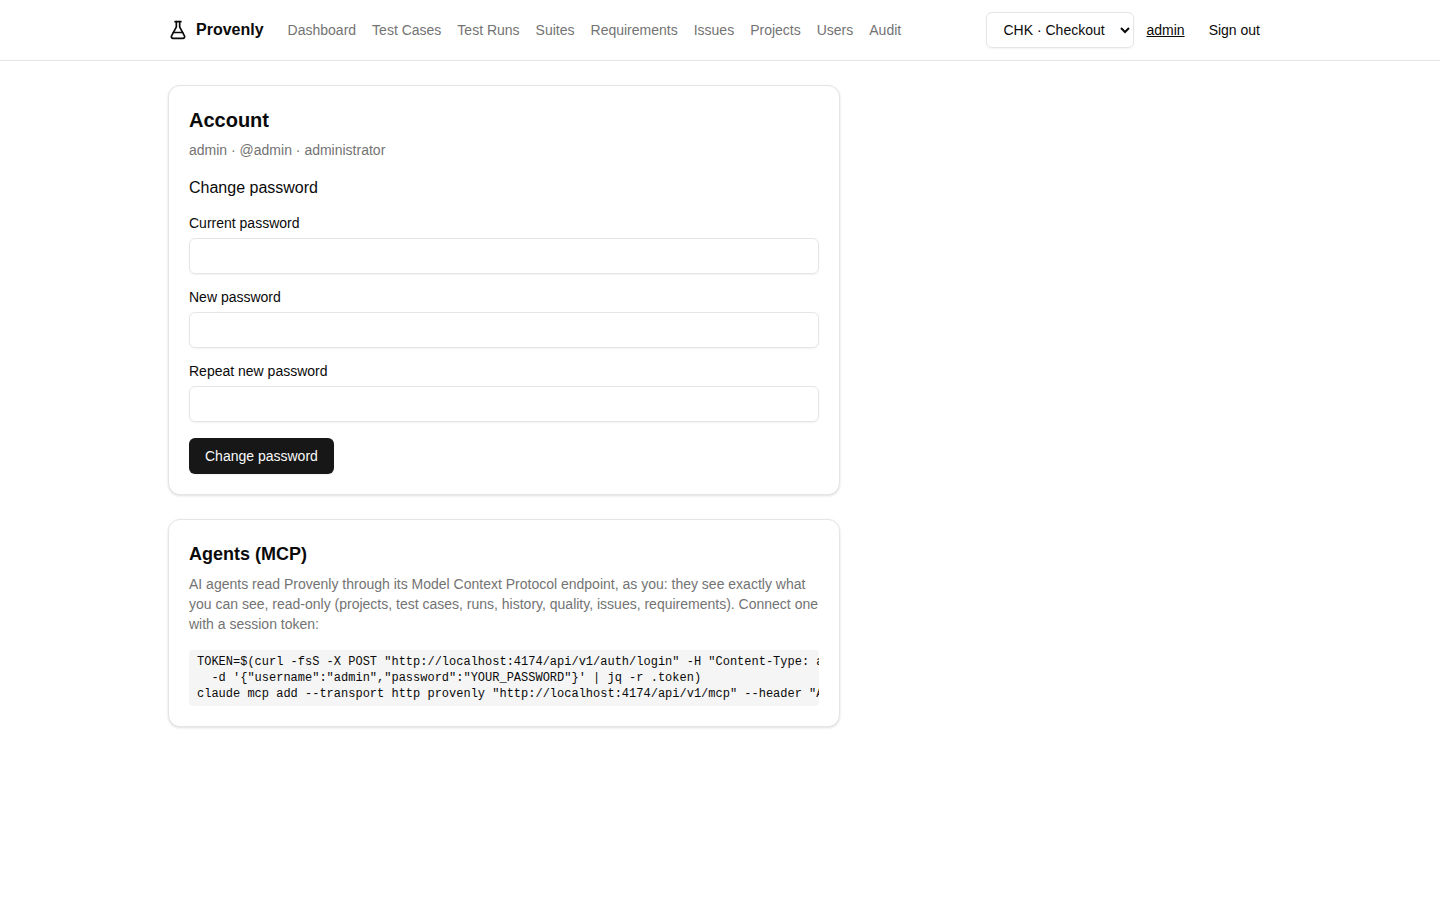
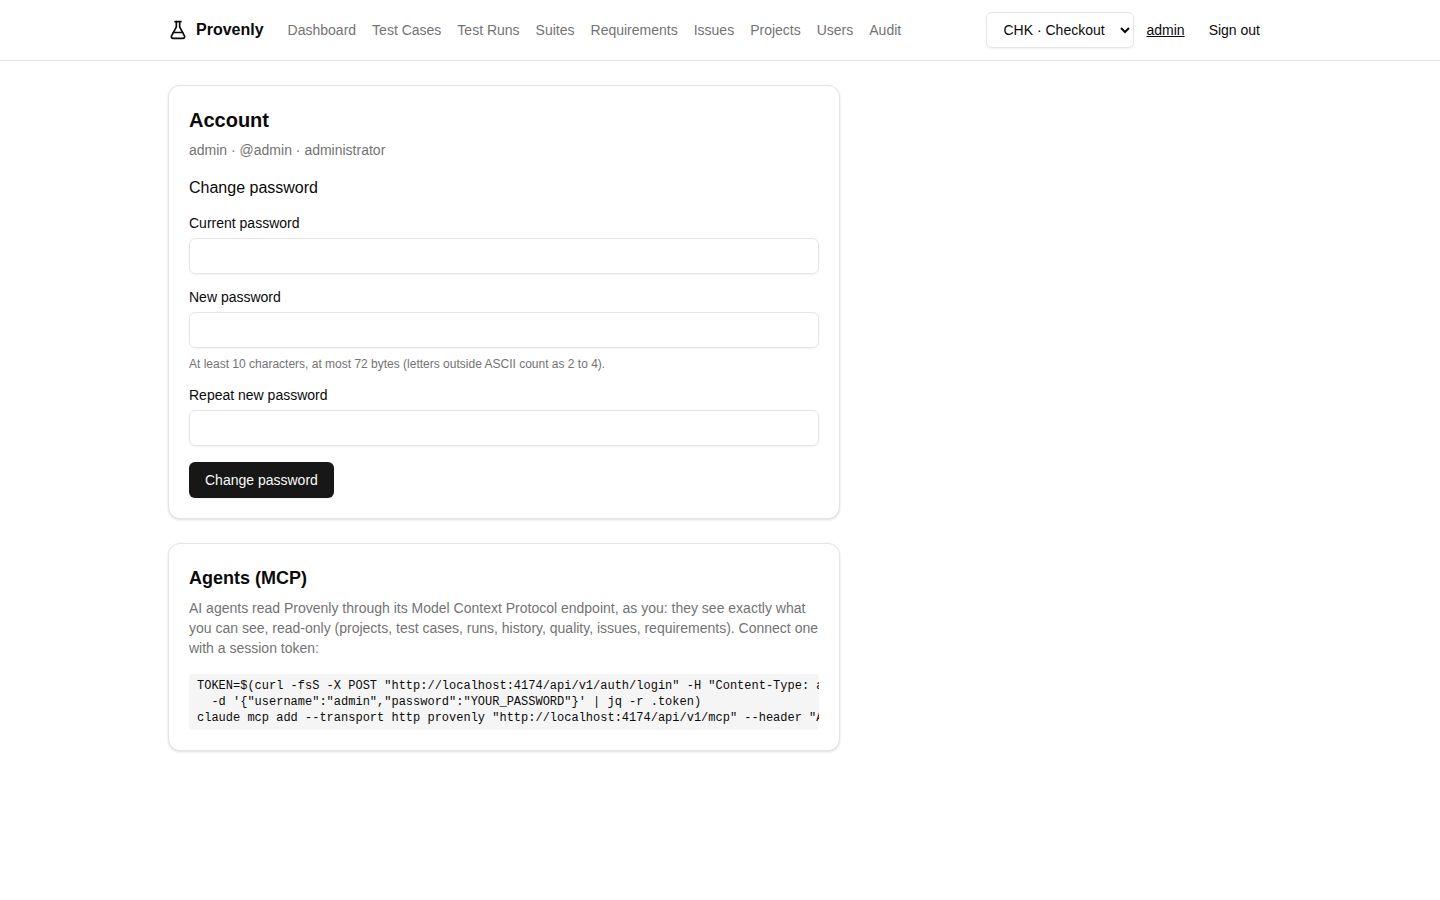
Passwords: minimum counted in characters, maximum in bytes
The 10-character minimum counted bytes, so 5 non-ASCII letters passed and a
10-letter password like "contraseña" was measured as 11. The minimum now counts
characters; the 72-byte maximum (bcrypt's limit, never truncated) stays and the
forms and error explain that non-ASCII letters count as 2 to 4 bytes. The same
rule applies to PROVENLY_ADMIN_PASSWORD (documented in prod.env.example).

Claude-Session: https://claude.ai/code/session_01GioNDrizPJ4gyPR3jgQwuF

Changed region(s): [[0.125, 0.5911, 0.5625, 0.8089], [0.125, 0.4044, 0.4062, 0.56]]

diff --git a/frontend/src/test/mockApi.ts b/frontend/src/test/mockApi.ts
@@ -1530,7 +1530,11 @@ export const handlers = [
         const body = await readBody(request)
         const u = currentUser()
         const next = String(body?.newPassword ?? '')
-        if (next.length < 10) return validation('newPassword', 'must be at least 10 characters')
+        const tooShort = (p: string) => [...p].length < 10
+        const tooLong = (p: string) => new TextEncoder().encode(p).length > 72
+        if (tooShort(next)) return validation('newPassword', 'must be at least 10 characters')
+        if (tooLong(next))
+          return validation('newPassword', 'must be at most 72 bytes (letters outside ASCII count as 2 to 4)')
         if (db.passwords[u.username] !== body?.currentPassword)
           return validation('currentPassword', 'is not your current password')
         db.passwords[u.username] = next
@@ -1597,7 +1601,9 @@ export const handlers = [
           .toLowerCase()
         const password = String(body?.password ?? '')
         if (!USERNAME.test(username)) return validation('username', 'must be 3 to 32 lower-case letters')
-        if (password.length < 10) return validation('password', 'must be at least 10 characters')
+        if ([...password].length < 10) return validation('password', 'must be at least 10 characters')
+        if (new TextEncoder().encode(password).length > 72)
+          return validation('password', 'must be at most 72 bytes (letters outside ASCII count as 2 to 4)')
         const inv = db.invitations.find((i) => i.id === db.invitationTokens[String(body?.token ?? '')])
         if (!inv || inv.status !== 'pending')
           return problem(404, 'not_found', 'invitation not found, expired, revoked or already used')

diff --git a/frontend/src/features/auth/auth.int.test.tsx b/frontend/src/features/auth/auth.int.test.tsx
@@ -281,6 +281,12 @@ describe('FE-INT-029 account', () => {
       }
       await u.click(screen.getByRole('button', { name: 'Change password' }))
     }
+    expect(screen.getByLabelText('New password')).toHaveAccessibleDescription(
+      'At least 10 characters, at most 72 bytes (letters outside ASCII count as 2 to 4).',
+    )
+    // 37 two-byte letters are 74 bytes: over bcrypt's limit although only 37 characters.
+    await fill('correct horse', 'ñ'.repeat(37), 'ñ'.repeat(37))
+    expect(await screen.findByRole('alert')).toHaveTextContent('newPassword: must be at most 72 bytes')
     await fill('correct horse', 'a brand new password', 'something else!')
     expect(screen.getByText('The new passwords do not match.')).toBeInTheDocument()
     await fill('wrong password', 'a brand new password', 'a brand new password')

diff --git a/frontend/src/features/auth/AccountPage.tsx b/frontend/src/features/auth/AccountPage.tsx
@@ -83,7 +83,11 @@ export function AccountPage() {
                 onChange={set('newPassword')}
                 required
                 minLength={10}
+                aria-describedby="new-password-hint"
               />
+              <p className="text-muted-foreground text-xs" id="new-password-hint">
+                At least 10 characters, at most 72 bytes (letters outside ASCII count as 2 to 4).
+              </p>
             </div>
             <div className="grid gap-2">
               <Label htmlFor="confirm-password">Repeat new password</Label>

diff --git a/frontend/src/features/auth/AcceptInvitePage.tsx b/frontend/src/features/auth/AcceptInvitePage.tsx
@@ -123,6 +123,9 @@ export function AcceptInvitePage() {
                   minLength={10}
                   {...invalid('password')}
                 />
+                <p className="text-muted-foreground text-xs" id="invite-password-hint">
+                  At least 10 characters, at most 72 bytes (letters outside ASCII count as 2 to 4).
+                </p>
                 {fieldError('password', 'Password')}
               </div>
               <div className="grid gap-2">

diff --git a/backend/internal/identity/service.go b/backend/internal/identity/service.go
@@ -24,7 +24,7 @@ import (
 
 // Limits and formats of the identity module.
 const (
-	MinPasswordBytes = 10
+	MinPasswordChars = 10
 	// MaxPasswordBytes is bcrypt's input limit: longer passwords would be silently truncated.
 	MaxPasswordBytes = 72
 	maxDisplayName   = 100
@@ -402,9 +402,12 @@ func validateUsername(v *apperr.Validator, username string) {
 	v.Check(UsernamePattern.MatchString(username), "username", UsernameMessage)
 }
 
+// validatePassword checks the length in characters at the bottom (what people count) and in bytes at the top (bcrypt's
+// limit, never truncated): a 10-character password of multi-byte characters is not a 5-character one.
 func validatePassword(v *apperr.Validator, field, password string) {
-	v.Check(len(password) >= MinPasswordBytes, field, fmt.Sprintf("must be at least %d characters", MinPasswordBytes))
-	v.Check(len(password) <= MaxPasswordBytes, field, fmt.Sprintf("must be at most %d bytes", MaxPasswordBytes))
+	v.Check(utf8.RuneCountInString(password) >= MinPasswordChars, field, fmt.Sprintf("must be at least %d characters", MinPasswordChars))
+	v.Check(len(password) <= MaxPasswordBytes, field,
+		fmt.Sprintf("must be at most %d bytes (letters outside ASCII count as 2 to 4)", MaxPasswordBytes))
 	v.CheckText(field, password)
 }
 

diff --git a/backend/internal/identity/service_test.go b/backend/internal/identity/service_test.go
@@ -160,10 +160,14 @@ func TestChangePasswordSignsOtherSessionsOut(t *testing.T) {
 
 func TestPasswordRules(t *testing.T) {
 	var v apperr.Validator
-	validatePassword(&v, "password", strings.Repeat("x", MinPasswordBytes))
+	validatePassword(&v, "password", strings.Repeat("x", MinPasswordChars))
 	validatePassword(&v, "password", strings.Repeat("x", MaxPasswordBytes))
+	validatePassword(&v, "password", "contraseña")            // 10 characters, 11 bytes
+	validatePassword(&v, "password", strings.Repeat("ñ", 36)) // 36 characters, exactly 72 bytes
 	assert.NoError(t, v.Err())
-	for _, p := range []string{"", strings.Repeat("x", MinPasswordBytes-1), strings.Repeat("x", MaxPasswordBytes+1), "abcdefghij\x00", "\xffabcdefghij"} {
+	// The minimum counts characters, the maximum bytes: 5 two-byte letters are 10 bytes but only 5 characters.
+	for _, p := range []string{"", strings.Repeat("x", MinPasswordChars-1), strings.Repeat("x", MaxPasswordBytes+1), "abcdefghij\x00", "\xffabcdefghij",
+		strings.Repeat("ñ", 5), strings.Repeat("😀", 19)} {
 		var v apperr.Validator
 		validatePassword(&v, "password", p)
 		assert.Error(t, v.Err(), "%q", p)

diff --git a/backend/test/contract/contract_test.go b/backend/test/contract/contract_test.go
@@ -212,6 +212,11 @@ func TestAuthentication(t *testing.T) {
 	}
 	accept(invToken, "Admin").Status(http.StatusConflict).JSON(problemOpts).Object().HasValue("code", "conflict")
 	accept(invToken, "x").Status(http.StatusBadRequest)
+	// Passwords: at least 10 characters (5 two-byte letters are not enough), at most 72 bytes (bcrypt's limit).
+	for _, pw := range []string{strings.Repeat("ñ", 5), strings.Repeat("p", 73)} {
+		e.POST("/api/v1/invitations/accept").WithJSON(map[string]any{"token": invToken, "username": "pat", "displayName": "Pat", "password": pw}).
+			Expect().Status(http.StatusBadRequest).JSON(problemOpts).Object().Value("errors").Array().Value(0).Object().HasValue("field", "password")
+	}
 	e.POST("/api/v1/invitations/accept").WithText(`{}`).Expect().Status(http.StatusUnsupportedMediaType)
 	ana := accept(invToken, "ana").Status(http.StatusCreated).JSON().Object()
 	ana.Value("user").Object().HasValue("username", "ana").HasValue("isAdmin", false).HasValue("email", "ana@example.com")

diff --git a/docs/prototype/README.md b/docs/prototype/README.md
@@ -60,7 +60,7 @@ Decisions taken in the prototype without Ed (to review). `MVP Dn` and `DEC-n` ar
 | P2-1 | Bootstrap | The first administrator comes from `PROVENLY_ADMIN_USERNAME` / `PROVENLY_ADMIN_PASSWORD` when there are no users; demo and qa ship a published demo password, prod refuses it | Self-hosting needs a first account without a setup wizard race; config is how the other settings already arrive |
 | P2-2 | Session transport | HS256 JWT (12 h) returned by sign-in and also set as an HttpOnly, SameSite=Strict cookie; the API accepts `Authorization: Bearer` or the cookie | The browser never sees the token (no XSS theft), scripts and CI tools use the bearer form; SameSite=Strict plus JSON-only bodies covers CSRF |
 | P2-3 | Revocation | Stateless sessions, but each request re-reads the user and a password-version claim signs every other session out on a password change | Real revocation without a session table; per-request user read is needed for roles anyway (feature 3) |
-| P2-4 | Passwords | bcrypt cost 12, 10 characters to 72 bytes (bcrypt's limit, never truncated silently); one answer for unknown user and wrong password, with equal timing | NIST-style minimum length, no composition rules; no account enumeration |
+| P2-4 | Passwords | bcrypt cost 12, at least 10 characters (counted as characters, 2026-10-06) to 72 bytes (bcrypt's limit, never truncated silently); one answer for unknown user and wrong password, with equal timing | NIST-style minimum length, no composition rules; no account enumeration |
 | P2-5 | Invitations | Single-use link, 7 days, optional email (prefills the account's email), revocable while pending; only the SHA-256 of the token is stored; shown once | MVP D13 (invitation link, email optional); a leaked database does not leak usable links |
 | P2-6 | Who may invite | Only administrators manage users and invitations in this feature; feature 3 replaces this with roles | Smallest rule until roles exist |
 | P2-7 | Ingestion | Stays public until CI API keys exist (feature 4) | CI cannot sign in with a person's account; keys are the MVP answer (D4, D11) |
@@ -350,6 +350,11 @@ Filled in as each feature is merged: behavior, API, UI, tests, known limits.
 - **UI**: new manual run page, manual execution panel on the run page, running/manual badges (screenshots 56–57).
 - **Tests**: unit (execution service, ingestion orchestration and handlers, DTOs), BE-INT-048, backend and frontend
   contract, FE-INT-039, BE-E2E-017, FE-E2E-019, probe manual sweep (inputs, concurrency, closed runs).
+
+### 25. Refined follow-ups (2026-10-06)
+
+- **Passwords**: the minimum counts characters, not bytes (`contraseña` is 10); the maximum stays 72 bytes and the
+  forms and the error say non-ASCII letters count as 2 to 4. Same rule for `PROVENLY_ADMIN_PASSWORD`.
 
 ### 24. Review-panel audit (2026-10-06): fixes
 

diff --git a/docs/architecture.md b/docs/architecture.md
@@ -45,7 +45,8 @@ One Go process, eight modules with their own internal interfaces. No queues, RPC
 
 ## Identity and sessions (module `identity`)
 
-- Local accounts (MVP D13): username (lower-case, immutable) + bcrypt password (cost 12, 10 characters to 72 bytes).
+- Local accounts (MVP D13): username (lower-case, immutable) + bcrypt password (cost 12, at least 10 characters counted as characters, at most 72 bytes: bcrypt's
+  limit, never truncated; the forms say so).
   Users are never deleted (trigger). The first administrator is created on start when there are no users, from
   `PROVENLY_ADMIN_USERNAME` / `PROVENLY_ADMIN_PASSWORD`; prod refuses the public demo password.
 - New people join through single-use invitation links (7 days; email optional). Only the SHA-256 of the token is
